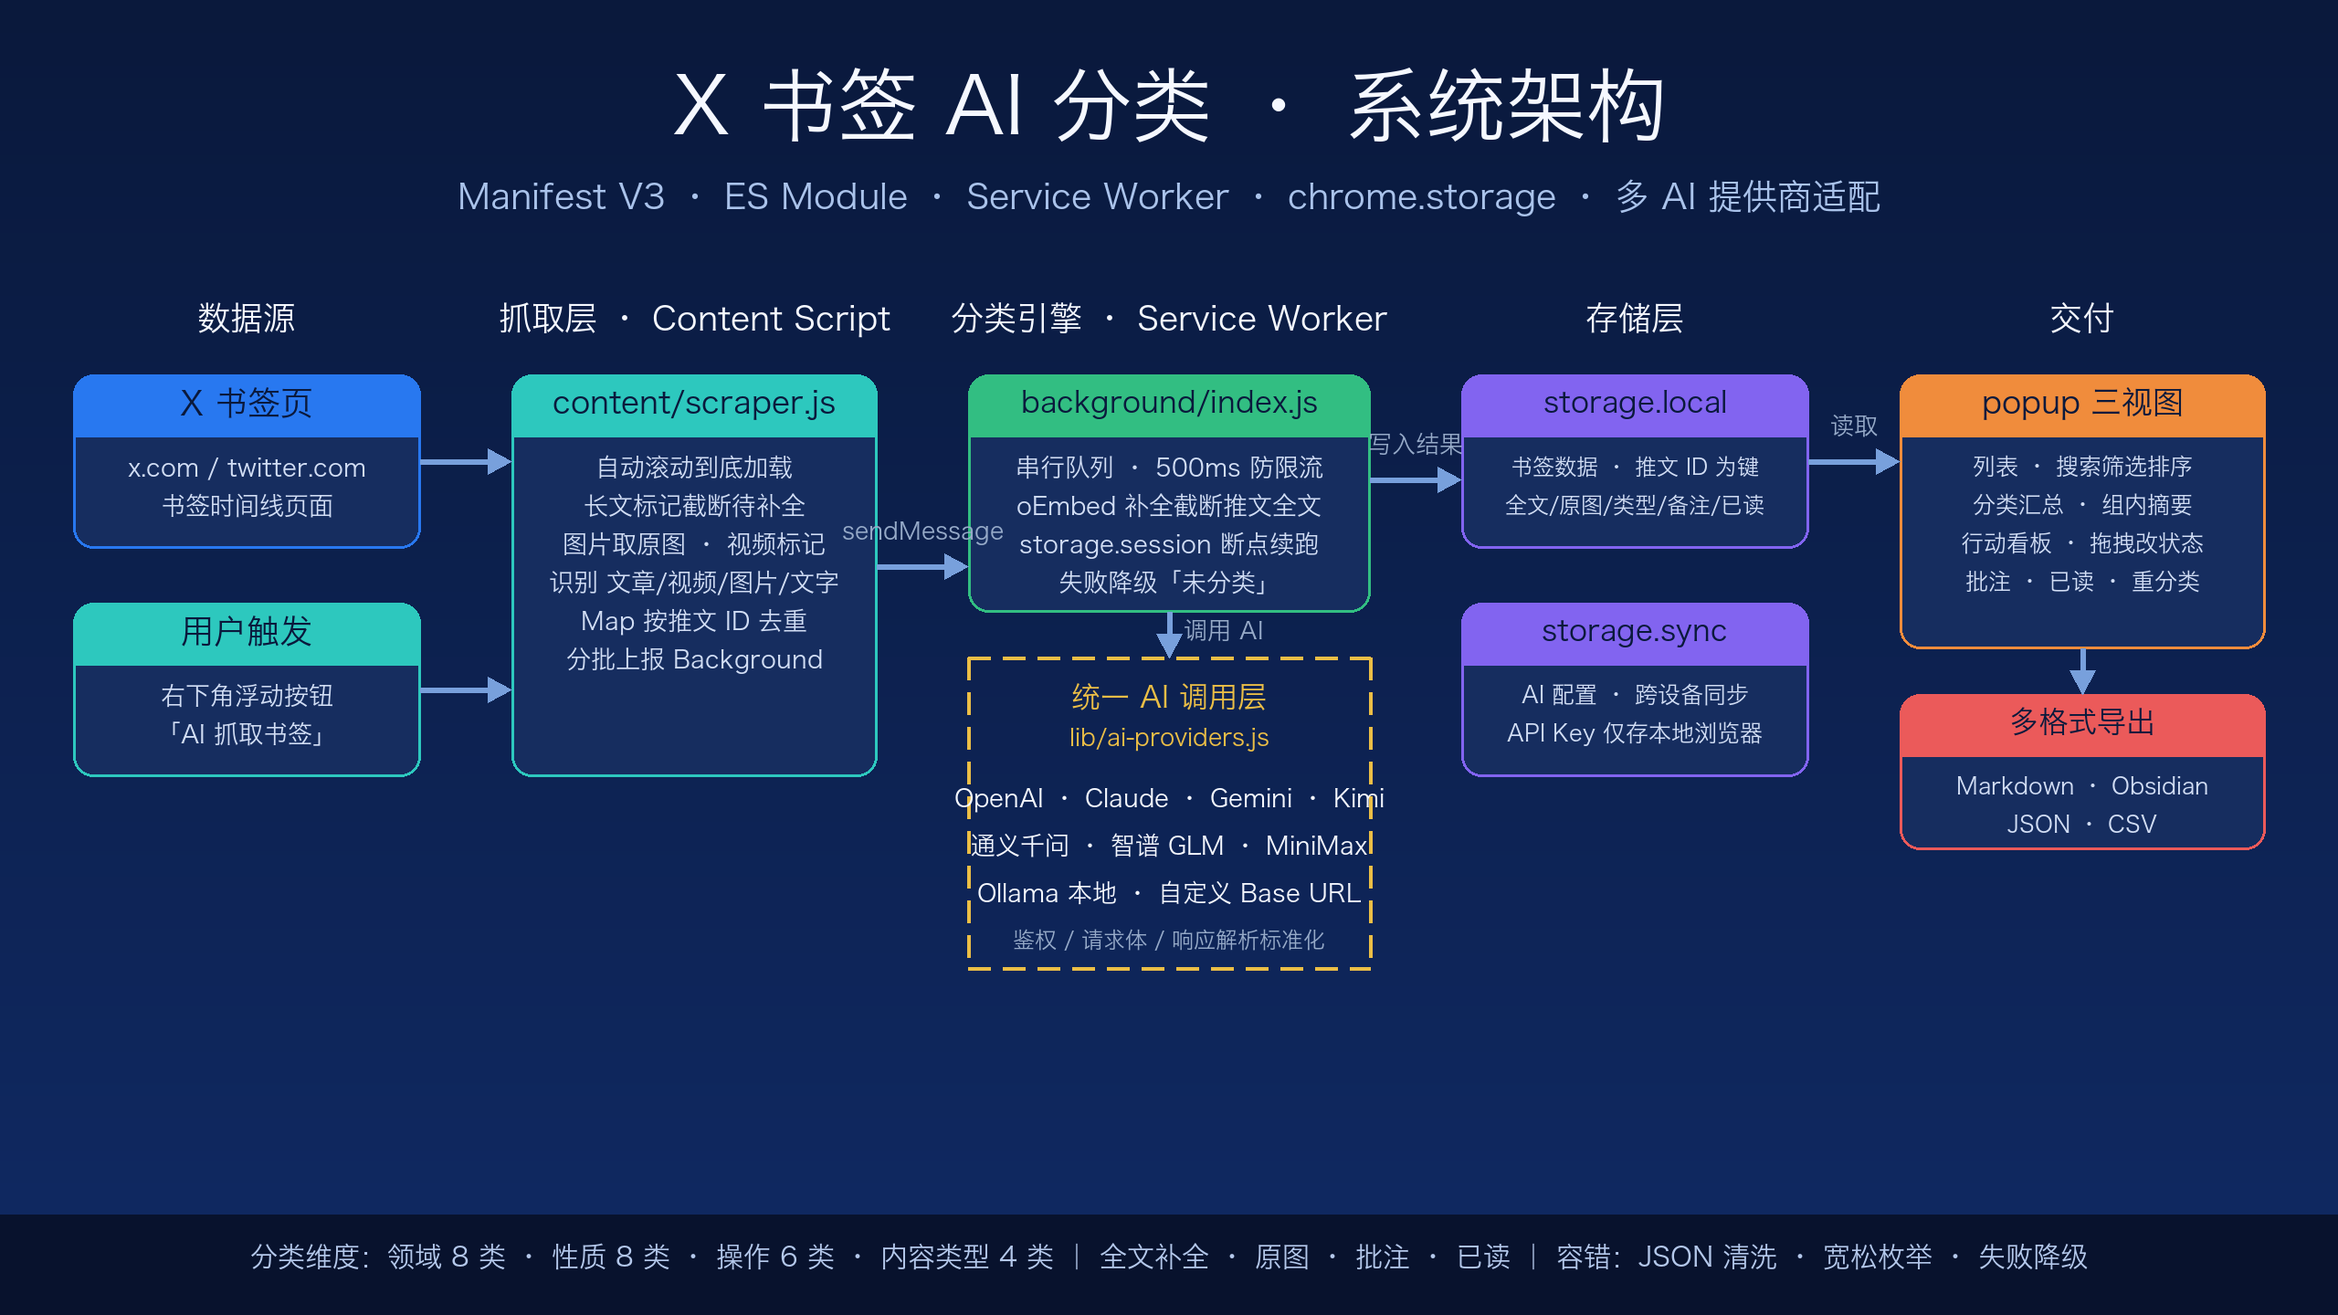
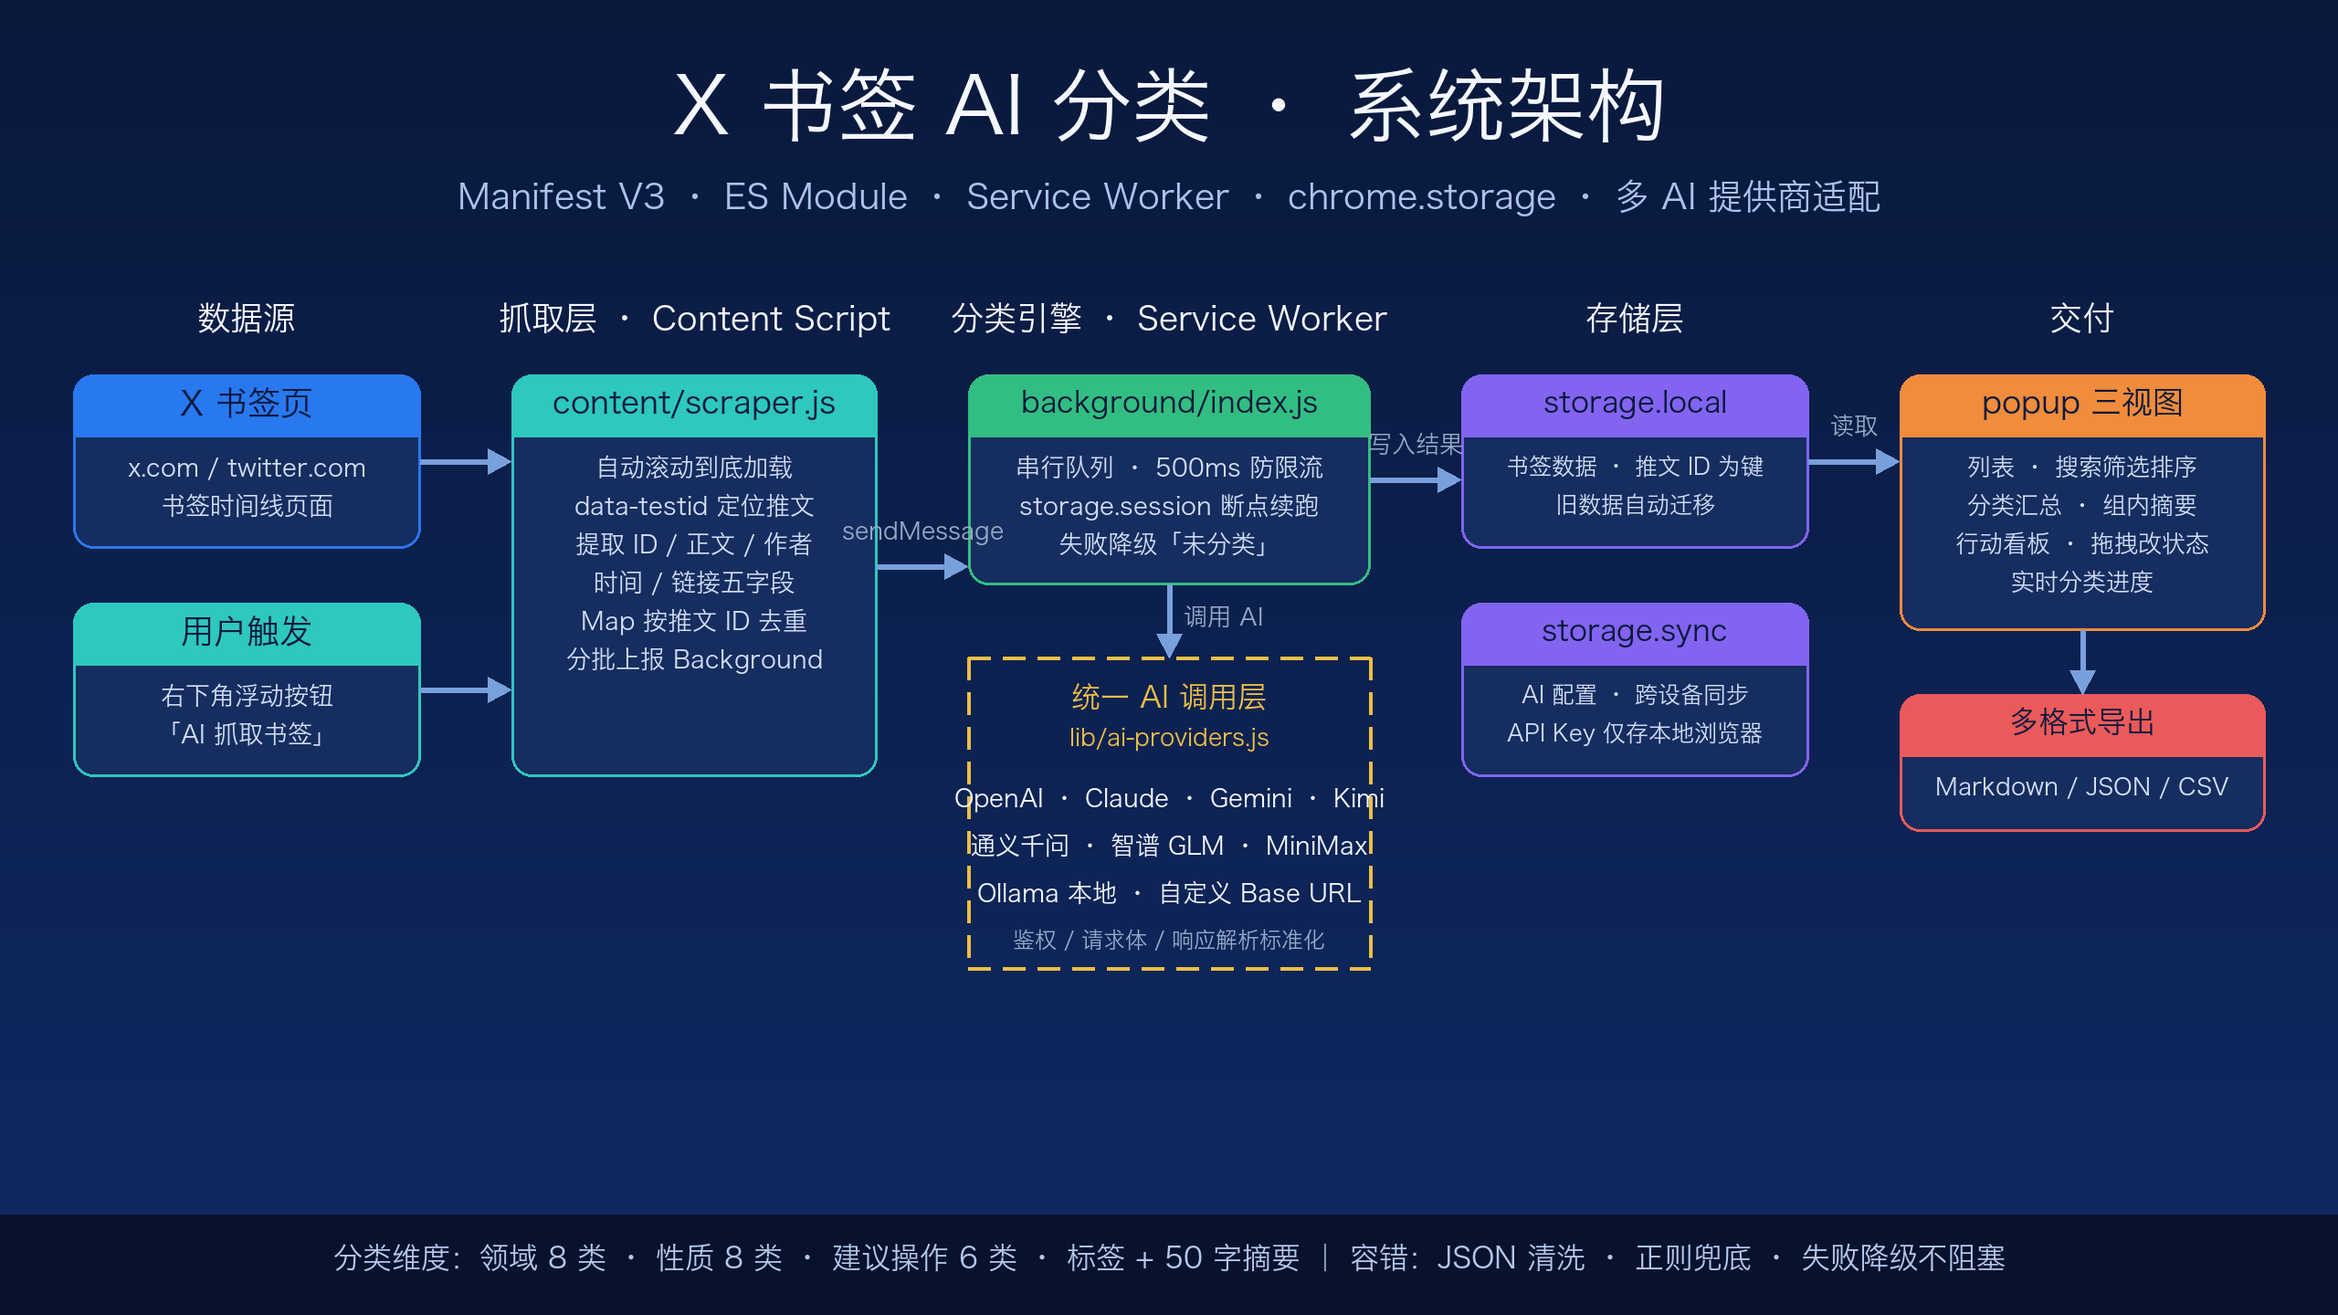
feat: X 长文（Articles）全文抓取与队列健壮性
- background：文章类型通过后台隐藏标签页打开 /<handle>/article/<tweetId>
  抓取正文（实测 X 文章 URL 规律），oEmbed 只返回链接时自动补全
- 提取器只取叶子级文本块，过滤作者栏/按钮/站点导航噪音，<300 字视为失败
- 失败计次（articleFetchFails），最多重试 3 次，避免每次抓取白开标签页
- storage：旧记录正文为纯链接或文章正文过短时，抓取后自动入队补全，
  保留已有分类/备注/已读
- 队列保活（SW 空闲 30s 被杀导致长任务中断）+ 单条异常不再中断整条队列
- popup：文章卡片支持全文展开显示

diff --git a/background/index.js b/background/index.js
@@ -39,6 +39,90 @@ async function fetchFullText(tweet) {
   return text;
 }
 
+/**
+ * 在真实文章页面执行的正文提取（自包含，由 scripting.executeScript 注入）。
+ * X 长文（Articles）正文不在 tweetText 里，oEmbed 也只返回链接，必须开页面抓。
+ * 只认文章阅读视图，且要求足够长，避免把作者栏/关注按钮等页面噪音当正文。
+ */
+function extractArticleTextInPage() {
+  const root =
+    document.querySelector('[data-testid="twitterArticleReadView"]') ||
+    document.querySelector('[data-testid="article"]') ||
+    document.querySelector('main[role="main"]');
+  if (!root) return null;
+  const nodes = root.querySelectorAll("h1, h2, h3, p, li, blockquote, [dir='auto'][lang]");
+  const picked = [];
+  const seen = new Set();
+  for (const el of nodes) {
+    // 只取叶子级，避免父容器重复整段文本
+    if (el.querySelector("h1, h2, h3, p, li, blockquote, [dir='auto'][lang]")) continue;
+    // 跳过作者栏 / 按钮 / 站点导航里的文本（保留文章自身 header 中的引语段）
+    if (el.closest('[data-testid="User-Name"], [role="button"], button, nav, header[role="banner"]')) continue;
+    const text = (el.innerText || "").trim();
+    if (text.length < 20 || seen.has(text)) continue;
+    if (/^(关注|正在关注|Follow|Following|Subscribe|订阅)$/.test(text)) continue;
+    seen.add(text);
+    picked.push(text);
+  }
+  const joined = picked.join("\n\n");
+  return joined.length >= 300 ? joined : null; // 太短多半是噪音，宁缺毋滥
+}
+
+/** 等标签页加载完成（带竞态处理与超时） */
+function waitTabComplete(tabId, timeoutMs = 20000) {
+  return new Promise((resolve, reject) => {
+    const timer = setTimeout(() => {
+      chrome.tabs.onUpdated.removeListener(onUpdated);
+      reject(new Error("页面加载超时"));
+    }, timeoutMs);
+    function onUpdated(id, info) {
+      if (id === tabId && info.status === "complete") {
+        clearTimeout(timer);
+        chrome.tabs.onUpdated.removeListener(onUpdated);
+        resolve();
+      }
+    }
+    chrome.tabs.onUpdated.addListener(onUpdated);
+    // 竞态：监听器挂上时页面可能已加载完
+    chrome.tabs.get(tabId).then((t) => {
+      if (t?.status === "complete") {
+        clearTimeout(timer);
+        chrome.tabs.onUpdated.removeListener(onUpdated);
+        resolve();
+      }
+    }).catch(() => {});
+  });
+}
+
+/**
+ * 文章类型：后台开一个不可见标签页抓 X Articles 正文。
+ * 实测规律：/<handle>/article/<tweetId> 直接打开就是文章阅读页
+ * （/i/article/<articleId> 也会重定向到这个形态），无需先进详情页找链接。
+ * 成功返回纯文本；失败返回 null（调用方保持现状）。
+ */
+async function fetchArticleFullText(tweet) {
+  let tabId = null;
+  try {
+    const handle = (tweet.author?.handle || "").replace(/^@/, "");
+    if (!handle) return null;
+    const articleUrl = `https://x.com/${handle}/article/${tweet.id}`;
+    const tab = await chrome.tabs.create({ url: articleUrl, active: false });
+    tabId = tab.id;
+    await waitTabComplete(tabId);
+    await sleep(2500); // 等前端渲染
+
+    const [result] = await chrome.scripting.executeScript({
+      target: { tabId },
+      func: extractArticleTextInPage,
+    });
+    return result?.result || null;
+  } catch {
+    return null;
+  } finally {
+    if (tabId != null) chrome.tabs.remove(tabId).catch(() => {});
+  }
+}
+
 // ==================== 队列（SW 终止可恢复） ====================
 
 let queue = []; // 待分类推文 id
@@ -97,13 +181,22 @@ async function enqueue(tweetIds) {
 async function processQueue() {
   if (processing) return;
   processing = true;
+  // 保活：文章全文抓取可能让 SW 空闲超时被杀，周期性 API 调用重置空闲计时
+  const keepAlive = setInterval(() => {
+    chrome.runtime.getPlatformInfo(() => void chrome.runtime.lastError);
+  }, 20000);
   try {
     while (queue.length) {
       const id = queue[0];
       const done = queueTotal - queue.length;
       broadcast({ action: "classifyProgress", done, total: queueTotal, currentId: id });
 
-      await classifyOne(id);
+      try {
+        await classifyOne(id);
+      } catch (e) {
+        // 单条异常不阻塞整条队列
+        console.error("classifyOne failed:", id, e);
+      }
 
       queue.shift();
       await persistQueue();
@@ -117,6 +210,7 @@ async function processQueue() {
       if (queue.length) await sleep(CLASSIFY_INTERVAL_MS); // 防限流
     }
   } finally {
+    clearInterval(keepAlive);
     processing = false;
     if (!queue.length) {
       queueTotal = 0;
@@ -138,6 +232,30 @@ async function classifyOne(id) {
       tweet = (await updateTweet(id, { content: full, truncated: false })) || tweet;
     } catch {
       await updateTweet(id, { fullTextFailed: true }); // 保持原文，标记补全失败
+    }
+  }
+
+  // 文章（Articles）：oEmbed 只返回链接，内容为空或只是链接时开后台标签页抓全文
+  // 失败计次，最多重试 3 次（代码升级后仍有机会补上，又不会每次抓取都白开标签页）
+  const contentTrim = (tweet.content || "").trim();
+  const looksLikeOnlyLink =
+    /^https?:\/\/\S+(\s|$)/.test(contentTrim) ||
+    (tweet.contentType === "文章" && (!contentTrim || contentTrim.length < 200));
+  if (looksLikeOnlyLink && (tweet.articleFetchFails || 0) < 3) {
+    const full = await fetchArticleFullText(tweet);
+    if (full) {
+      tweet = (await updateTweet(id, {
+        content: full,
+        truncated: false,
+        contentType: "文章",
+        articleFetchFails: 0,
+        articleFetchFailed: false,
+      })) || tweet;
+    } else {
+      await updateTweet(id, {
+        articleFetchFails: (tweet.articleFetchFails || 0) + 1,
+        articleFetchFailed: true,
+      });
     }
   }
 
@@ -239,9 +357,10 @@ chrome.runtime.onMessage.addListener((message, sender, sendResponse) => {
     // content 脚本批量上报
     saveTweets: async () => {
       const r = await saveTweets(message.tweets);
-      if (r.added > 0 && message.autoClassify !== false) {
-        const ids = message.tweets.map((t) => t.id);
-        enqueue(ids);
+      if (message.autoClassify !== false) {
+        // 新增 + 被补全内容的旧记录都入队分类
+        const ids = [...(r.addedIds || []), ...(r.updated || [])];
+        if (ids.length) enqueue(ids);
       }
       return { success: true, ...r };
     },

diff --git a/lib/storage.js b/lib/storage.js
@@ -48,32 +48,71 @@ export async function getAllTweets() {
 }
 
 /**
- * 批量保存新书签（已存在的跳过），返回 { added, total }。
+ * 批量保存新书签，返回 { added, updated, total }。
+ * - 新推文：入库
+ * - 已存在但内容类字段缺失的旧记录（如旧版抓的文章无正文）：用新数据补全
+ *   content/images/mediaType/contentType/truncated，保留已有分类结果，
+ *   并放入 updated 供调用方决定是否重新分类
  */
 export async function saveTweets(tweets) {
-  if (!Array.isArray(tweets) || !tweets.length) return { added: 0, total: (await getIndex()).length };
+  if (!Array.isArray(tweets) || !tweets.length) return { added: 0, addedIds: [], updated: [], total: (await getIndex()).length };
   const index = await getIndex();
   const existing = new Set(index);
   const toSet = {};
-  let added = 0;
+  const addedIds = [];
+  const updated = [];
+
+  // 预先读出可能需要补全的已有记录
+  const existKeys = tweets.filter((t) => t?.id && existing.has(t.id)).map((t) => TWEET_PREFIX + t.id);
+  const oldRecords = existKeys.length ? await chrome.storage.local.get(existKeys) : {};
+
   for (const t of tweets) {
-    if (!t?.id || existing.has(t.id)) continue;
-    toSet[TWEET_PREFIX + t.id] = {
-      ...DEFAULT_TWEET_FIELDS,
-      ...DEFAULT_CLASSIFICATION,
-      ...t,
-      tags: t.tags || [],
-      images: Array.isArray(t.images) ? t.images : [],
-    };
-    index.push(t.id);
-    existing.add(t.id);
-    added++;
+    if (!t?.id) continue;
+    const key = TWEET_PREFIX + t.id;
+    if (!existing.has(t.id)) {
+      toSet[key] = {
+        ...DEFAULT_TWEET_FIELDS,
+        ...DEFAULT_CLASSIFICATION,
+        ...t,
+        tags: t.tags || [],
+        images: Array.isArray(t.images) ? t.images : [],
+      };
+      index.push(t.id);
+      existing.add(t.id);
+      addedIds.push(t.id);
+      continue;
+    }
+    // 已有记录：只补内容类字段，不动分类/备注/已读
+    const old = oldRecords[key];
+    if (!old) continue;
+    const patch = {};
+    const oldContent = (old.content || "").trim();
+    // 旧记录正文只是 oEmbed 链接（文章类常见）：视为待补全，重新入队让后台开页抓全文
+    const linkOnly = /^https?:\/\/\S+(\s|$)/.test(oldContent);
+    if ((!old.content && t.content) || (linkOnly && t.content && t.content.trim().length > oldContent.length)) {
+      patch.content = t.content;
+      patch.truncated = !!t.truncated;
+    }
+    if ((!Array.isArray(old.images) || !old.images.length) && Array.isArray(t.images) && t.images.length) {
+      patch.images = t.images;
+    }
+    if (!old.mediaType && t.mediaType) patch.mediaType = t.mediaType;
+    if ((!old.contentType || old.contentType === "文字") && t.contentType && t.contentType !== "文字") {
+      patch.contentType = t.contentType;
+    }
+    if (Object.keys(patch).length) {
+      toSet[key] = { ...old, ...patch };
+      updated.push(t.id);
+    } else if ((old.articleFetchFails || 0) < 3) {
+      // 内容没变但仍需后台开文章页补全的，入队重新处理（失败 3 次后不再重试）：
+      // 1) 正文只是 oEmbed 链接；2) 文章类型但正文过短（含旧版误抓的作者栏噪音）
+      const shortJunk = (old.contentType === "文章" || t.contentType === "文章") && oldContent.length > 0 && oldContent.length < 200;
+      if (linkOnly || shortJunk) updated.push(t.id);
+    }
   }
-  if (added > 0) {
-    toSet[INDEX_KEY] = index;
-    await chrome.storage.local.set(toSet);
-  }
-  return { added, total: index.length };
+  if (addedIds.length) toSet[INDEX_KEY] = index;
+  if (Object.keys(toSet).length) await chrome.storage.local.set(toSet);
+  return { added: addedIds.length, addedIds, updated, total: index.length };
 }
 
 /** 局部更新单条书签（如 AI 分类结果、拖拽变更 action） */

diff --git a/content/scraper.js b/content/scraper.js
@@ -52,12 +52,28 @@
     return "文字";
   }
 
-  /** 卡片内是否有「显示更多 / Show more」截断链接 */
-  function detectTruncated(article) {
-    return Array.from(article.querySelectorAll("a[href*='/status/']")).some((a) => {
+  /** 卡片内是否有「显示更多 / Show more」截断链接，或正文以省略号结尾 */
+  function detectTruncated(article, content) {
+    const hasMore = Array.from(article.querySelectorAll("a[href*='/status/']")).some((a) => {
       const txt = (a.textContent || "").trim();
       return txt === "显示更多" || txt === "Show more" || txt === "Show More";
     });
+    return hasMore || /(\.\.\.|…)\s*$/.test((content || "").trim());
+  }
+
+  /**
+   * X 文章（长文）卡片的正文兜底提取：
+   * 文章预览不在 [data-testid="tweetText"] 里，取卡片内带 lang/dir 属性的最长文本块
+   * （作者行、按钮文本都很短，最长的一定是文章标题+预览正文）
+   */
+  function extractArticleText(article) {
+    let best = "";
+    article.querySelectorAll("div[lang], span[lang], div[dir='auto']").forEach((el) => {
+      if (el.closest('[data-testid="User-Name"]')) return;
+      const txt = (el.textContent || "").trim();
+      if (txt.length > best.length) best = txt;
+    });
+    return best;
   }
 
   /** 卡片内是否含视频（video 元素或 videoPlayer / playButton 等 testid） */
@@ -109,9 +125,10 @@
       const handle = handleMatch ? `@${handleMatch[1]}` : "";
 
       const textEl = article.querySelector('[data-testid="tweetText"]');
-      const content = textEl ? getTextWithLinks(textEl) : "";
+      let content = textEl ? getTextWithLinks(textEl) : "";
+      if (!content) content = extractArticleText(article); // X 文章卡片兜底
 
-      const truncated = detectTruncated(article);
+      const truncated = detectTruncated(article, content);
       const hasVideo = detectVideo(article);
       const images = extractImages(article);
       const isArticle = detectArticle(article, content);

diff --git a/popup/popup.js b/popup/popup.js
@@ -74,6 +74,7 @@ function tweetCard(t) {
       ${natureBadge(t.nature)}
     </div>
     <div class="summary">${esc(t.summary || (t.content || "").slice(0, 80))}</div>
+    ${t.content ? `<div class="fulltext${t.contentType === "文章" ? "" : " hidden"}">${esc(t.content)}</div>` : ""}
     ${t.note ? `<div class="note-text">${esc(t.note)}</div>` : ""}
     <div class="note-editor hidden">
       <textarea placeholder="添加备注…">${esc(t.note || "")}</textarea>
@@ -82,6 +83,7 @@ function tweetCard(t) {
     <div class="card-foot">
       <span class="tags">${tags}</span>
       <span>${esc(t.category || UNCATEGORIZED)}</span>
+      ${t.content ? `<button class="fulltext-btn">${t.contentType === "文章" ? "收起全文" : "展开全文"}</button>` : ""}
       <button class="note-btn" title="备注">备注</button>
       <button class="read-btn${t.read ? " done" : ""}" title="切换已读状态">${t.read ? "已读" : "未读"}</button>
       <button class="delete-btn" data-id="${esc(t.id)}" title="删除">✕</button>
@@ -104,6 +106,16 @@ function tweetCard(t) {
       reload();
     }
   });
+
+  // 全文展开/收起
+  const ftBtn = div.querySelector(".fulltext-btn");
+  if (ftBtn) {
+    ftBtn.addEventListener("click", () => {
+      const ft = div.querySelector(".fulltext");
+      ft.classList.toggle("hidden");
+      ftBtn.textContent = ft.classList.contains("hidden") ? "展开全文" : "收起全文";
+    });
+  }
 
   // 已读/未读切换
   div.querySelector(".read-btn").addEventListener("click", async () => {

diff --git a/popup/popup.css b/popup/popup.css
@@ -57,6 +57,16 @@ main { flex: 1; overflow-y: auto; padding: 10px 12px; }
   padding: 1px 8px; font-size: 11px; white-space: nowrap;
 }
 .summary { margin: 4px 0; }
+.fulltext {
+  margin: 6px 0; padding: 8px 10px; max-height: 320px; overflow-y: auto;
+  white-space: pre-wrap; word-break: break-word;
+  font-size: 12px; line-height: 1.7; color: #374151;
+  background: #f9fafb; border-left: 3px solid #1d9bf0; border-radius: 0 6px 6px 0;
+}
+.fulltext-btn {
+  border: 1px solid #d1d5db; background: #fff; color: #1d9bf0;
+  border-radius: 6px; padding: 1px 8px; font-size: 11px; cursor: pointer;
+}
 .tags { color: #1d9bf0; font-size: 12px; margin-right: 8px; }
 .card-foot { display: flex; align-items: center; gap: 8px; font-size: 12px; color: #6b7280; }
 .card-foot a { color: #1d9bf0; text-decoration: none; margin-left: auto; }
